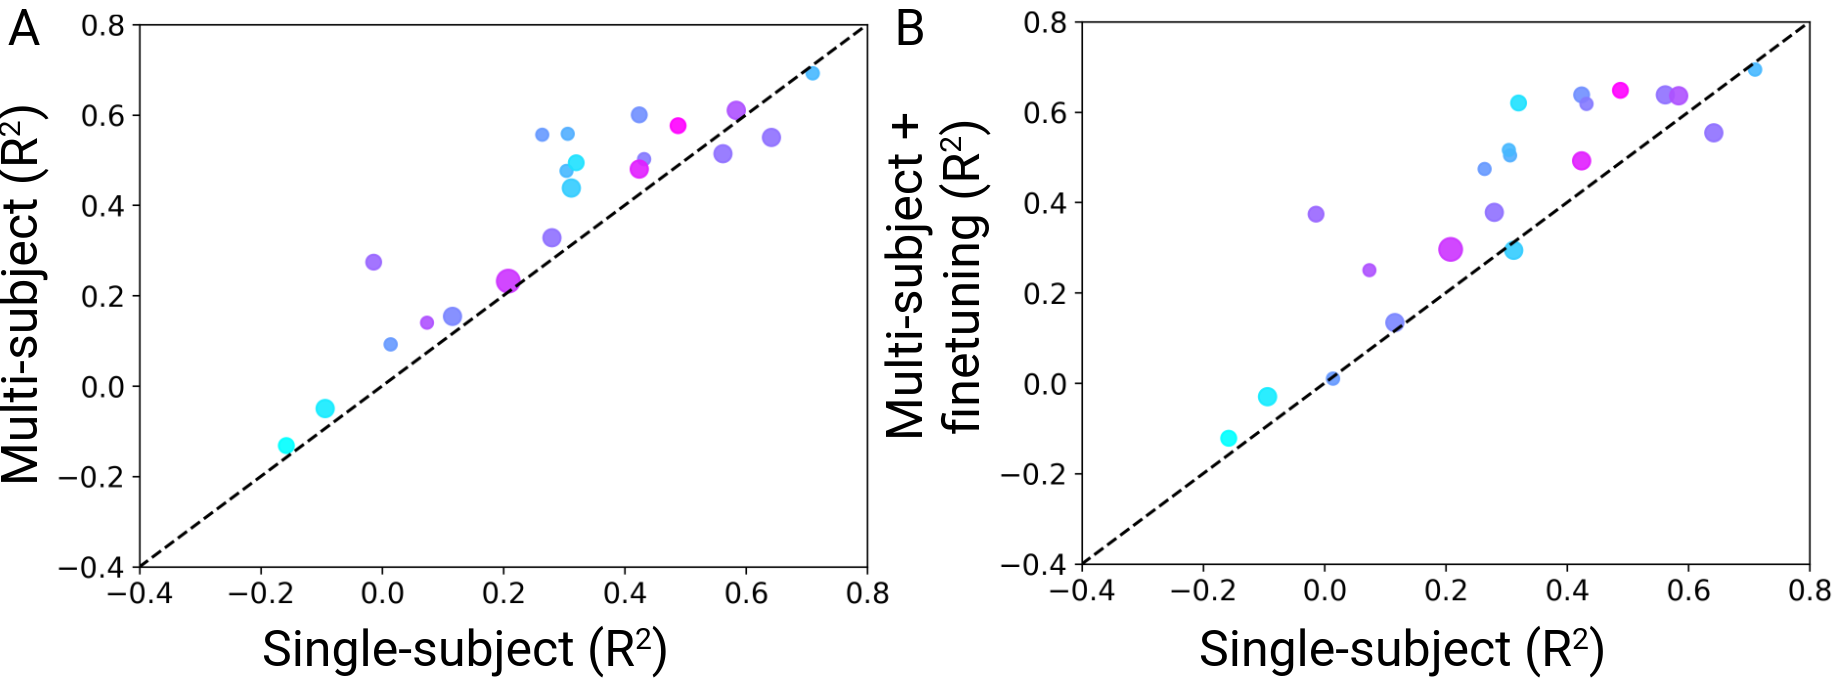
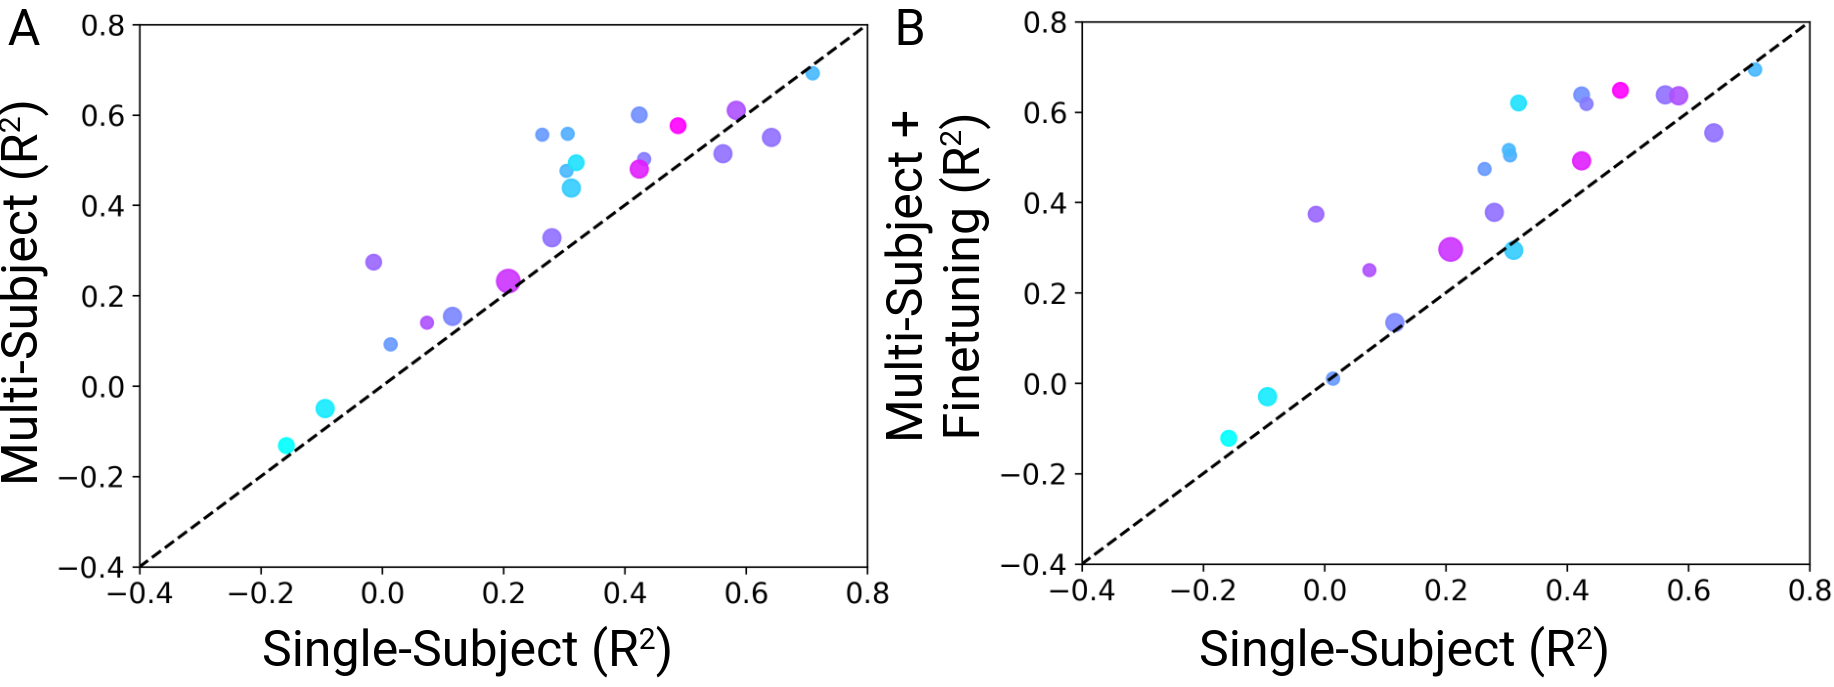
Updated Seegnificant project page

diff --git a/_seegnificant/default/proj1.md b/_seegnificant/default/proj1.md
@@ -7,23 +7,26 @@ date: 2024-01-9 00:01:00 +0800
 <div class="p-4">
     <!-- <h2 style="text-align: center; margin-bottom: 20px;">  Seeg-nificant </h2> -->
     <h3 style="text-align: center; margin-bottom: 20px;">Neural decoding from stereotactic EEG: accounting for electrode variability across subjects</h3>
-    <div style="width: 85%; margin: 0 auto; text-align: center; font-weight: bold; margin-bottom: 20px; font-size: 20px;">
+    <div style="width: 90%; margin: 0 auto; text-align: center; margin-bottom: 20px; font-size: 20px;">
         <span style="margin-right: 20px;">Georgios Mentzelopoulos<sup>1</sup></span>
         <span style="margin-right: 20px;">Evangelos Chatzipantazis<sup>1</sup></span>
-        <span style="margin-right: 20px;">Ashwin Ramayya<sup>2</sup></span>
+        <span style="margin-right: 20px;">Ashwin G. Ramayya<sup>2</sup></span>
         <span style="margin-right: 20px;">Michelle J. Hedlund<sup>2</sup></span>
         <span style="margin-right: 20px;">Vivek P. Buch<sup>2</sup></span>
-        <span style="margin-right: 20px;">Kostas Daniilidis<sup>1</sup></span>
+        <span style="margin-right: 20px;">Kostas Daniilidis<sup>1, 3</sup></span>
         <span style="margin-right: 20px;">Konrad P. Kording<sup>1</sup></span>
         <span style="margin-right: 20px;">Flavia Vitale<sup>1</sup></span>
     </div>
     <p style="text-align: center; margin-bottom: 20px; font-size: 18px;">
-        <sup>1</sup>
-        <img src="{{ 'assets/images/badges/upenn_logo.jpg' | relative_url }}" alt="Penn Logo" style="width: 30px; height: auto; vertical-align: middle;">
-        <span style="margin-right: 20px;"> University of Pennsylvania </span>
-        <sup>2</sup>
-        <img src="{{ 'assets/images/badges/stanford.png' | relative_url }}" alt="Stanford Logo" style="width: 17px; height: auto; vertical-align: middle;">
-        <span style="margin-right: 20px;"> Stanford University </span>
+        <sup>1</sup> <span style="margin-right: 2px;"> University of Pennsylvania </span>
+        <img src="{{ 'assets/images/badges/penn_logo_2.png' | relative_url }}" alt="Penn Logo" style="width: 50px; height: auto; vertical-align: middle; margin-right: 15px">
+        <!-- <span style="margin-right: 20px;"> University of Pennsylvania </span> -->
+        <sup>2</sup> <span style="margin-right: 2px;"> Stanford University </span>
+        <img src="{{ 'assets/images/badges/stanford.png' | relative_url }}" alt="Stanford Logo" style="width: 25px; height: auto; vertical-align: middle; margin-right: 15px">
+        <!-- <span style="margin-right: 20px;"> Stanford University </span> -->
+        <sup>3</sup> <span style="margin-right: 2px;"> Archimedes, Athena RC </span>
+        <img src="{{ 'assets/images/badges/archimedes_logo.png' | relative_url }}" alt="Archimedes Logo" style="width: 29px; height: auto; vertical-align: middle;">
+        <!-- <span style="margin-right: 20px;"> Archimedes, Athena RC </span> -->
     <!-- New line for Arxiv and GitHub logos with "Coming soon" tooltips -->
     <p style="text-align: center; margin-bottom: 20px;">
         <img src="{{ 'assets/images/badges/arxiv.jpg' | relative_url }}" alt="Arxiv Logo" title="Paper coming soon" style="width: 20px; height: auto; vertical-align: top; margin-right: 0px; cursor: not-allowed;">
@@ -33,73 +36,77 @@ date: 2024-01-9 00:01:00 +0800
             Code
         </a>
     </p>
-    <p style="text-align: center; margin-bottom: 20px;">Accepted for publication @ 
-    <a href="https://neurips.cc/Conferences/2024" target="_blank"> NeurIPS (2024).</a> <p>
+    <p style="text-align: center; margin-bottom: 20px;"> Published at the 38th Conference on Neural Information Processing Systems
+    <a href="https://neurips.cc/Conferences/2024" target="_blank"> (NeurIPS 2024).</a> <p>
     <h5 style="margin-top: 30px">Abstract</h5> 
     <hr />
     <p style="text-align: justify; margin-bottom: 20px; font-size: 17px">
-    Deep learning based neural decoding from stereotactic electroencephalography (sEEG) would likely benefit from scaling
-    up both dataset and model size. To achieve this, combining data across multiple subjects is crucial. However, in 
-    sEEG cohorts, each subject has a variable number of electrodes placed at distinct locations in their brain, solely 
-    based on clinical needs. Such heterogeneity in electrode number/placement poses a significant challenge for data 
-    integration, since there is no clear correspondence of the neural activity recorded at distinct sites between 
-    individuals. 
+    Deep learning based neural decoding from stereotactic electroencephalography (sEEG) would likely benefit from
+    scaling up both dataset and model size. To achieve this, combining data across multiple subjects is crucial. 
+    However, in sEEG cohorts, each subject has a variable number of electrodes placed at distinct locations in their 
+    brain, solely based on clinical needs. Such heterogeneity in electrode number/placement poses a significant 
+    challenge for data integration, since there is no clear correspondence of the neural activity recorded at distinct
+    sites between individuals.
+    <p style="text-align: justify; margin-bottom: 20px; font-size: 17px">
+    <strong><i>Here we introduce seegnificant: a training framework and architecture that can be used
+    to decode behavior across subjects using sEEG data</i></strong>. We tokenize the neural activity within electrodes using
+    convolutions and extract long-term temporal dependencies between tokens using self-attention in the time dimension. 
+    The 3D location of each electrode is then mixed with the tokens, followed by another self-attention in the
+    electrode dimension to extract effective spatiotemporal neural representations. Subject-specific heads are then
+    used for downstream decoding tasks.
     </p>
     <p style="text-align: justify; margin-bottom: 20px; font-size: 17px">
-    Here we introduce a training framework and architecture that can be used to decode behavior across
-    subjects using sEEG data. We tokenize the neural activity within electrodes using convolutions and extract 
-    long-term temporal dependencies between tokens using self-attention in the time dimension. The 3D location of each 
-    electrode is then mixed with the tokens, followed by another self-attention in the electrode dimension to extract
-    effective spatiotemporal neural representations. Subject-specific heads are then used for downstream decoding tasks.
-    </p>
-    <p style="text-align: justify; margin-bottom: 20px; font-size: 17px">
-    Using this approach, we construct a multi-subject model trained on the combined data from 21 subjects performing 
-    a behavioral task. We demonstrate that our model is able to decode the trial-wise response time of the subjects 
-    during the behavioral task solely from neural data. We also show that the neural representations learned by 
-    pretraining our model across individuals can be transferred in a few-shot manner to new subjects. This work 
-    introduces a scalable approach towards sEEG data integration for multi-subject model training, paving the way for
-    cross-subject generalization for sEEG decoding.  
+    Using this approach, we construct a multi-subject model trained on the combined
+    data from 21 subjects performing a behavioral task. We demonstrate that our model is able to decode the trial-wise
+    response time of the subjects during the behavioral task solely from neural data. We also show that the neural
+    representations learned by pretraining our model across individuals can be transferred in a few-shot manner to
+    new subjects. This work introduces a scalable approach towards sEEG data integration for multi-subject model
+    training, paving the way for cross-subject generalization for sEEG decoding.
     </p>
     <h5 style="margin-top: 30px">Dataset</h5> 
     <hr />
     <p style="text-align: justify; font-size: 17px">
-    <strong> Dataset. </strong> We obtained neural recordings from 21 subjects that were implanted with sEEG electrodes as part of
-    their medical care. Based on clinical needs, each subject was implanted with a variable number of electrodes at district locations in
-    their brain (Fig. 1A, B). Subjects were mixed in terms of sex (8 male, 13 female), age (ranging from 16-57 years old), and ethnic background. 
+    <strong> Neural Recordings. </strong> We obtained neural recordings from 21 subjects that were implanted with sEEG electrodes as part of
+    their medical care for medical refractory epilepsy. Based on clinical needs alone, each subject was implanted with a variable number of electrodes at district locations in
+    their brain (see Fig. 1). Subjects were mixed in terms of sex (8 male, 13 female), age (ranging from 16-57 years old), and ethnic background. 
     </p>
-    <p style="; font-size: 17px">
-    <strong> Behavioral Task. </strong> Subjects completed a repetitive, reaction
-    time task while their sEEG was simultaneously recorded (Fig. 1C). In each trial of the task, a visual stimulus was presented. After a variable delay, the stimulus changed color. 
-    At that time, the participant responded by pressing a button as fast as they could.
+    <div style="text-align: center;">
+        <img src="{{ 'assets/images/etc/dataset_seeg.png' | relative_url }}" alt="Descriptive text for the image" style="max-width: 100%; height: auto;">
+        <figcaption style="text-align: center; font-size: 17px; margin-top: 5px;">
+        Figure 1. <strong> Electrode placement for each subject in our cohort projected on an MNI brain template. </strong> Grey dots show behaviorally relevant electrodes, 
+        while grey dots represent behaviorally irrelevant electrodes (see Signal Processing).
+        </figcaption>
+    </div>
+    <p style="; font-size: 17px; margin-top: 15px">
+    <strong> Behavioral Task. </strong> Subjects completed the color-change detection task (a repetitive, reaction
+    time task) while their sEEG was simultaneously recorded (see Fig. 2). In each trial of the task, a visual stimulus was presented. After a variable delay, the stimulus changed color. 
+    At that time, the subject responded by pressing a button as fast as they could.
     </p>
     <!-- Figure with Caption -->
     <!-- Centered Figure with Limited Width -->
     <div style="text-align: center;">
-        <img src="{{ 'assets/images/etc/electrode_placement.png' | relative_url }}" alt="Descriptive text for the image" style="max-width: 80%; height: auto;">
+        <img src="{{ 'assets/images/etc/behavioral_task.png' | relative_url }}" alt="Descriptive text for the image" style="max-width: 50%; height: auto;">
         <figcaption style="text-align: center; font-size: 17px; margin-top: 5px;">
-        Figure 1. <strong> Dataset and behavioral experiment. </strong> <strong>(A)</strong> Electrode placement for 4 example subjects 
-        in our cohort. <strong>(B)</strong> All electrodes of all subject projected onto an MNI brain template.
-        <strong>(C)</strong> Schematic of a trial of the behavioral task.
+        Figure 2. <strong> Schematic of the behavioral task completed by subjects. </strong> 
         </figcaption>
     </div>
-    <h5 style="margin-top: 30px">Objective & challenges</h5>
+    <h5 style="margin-top: 30px">Mission</h5>
     <hr />
     <p style="; font-size: 17px">
-    <strong> Objective. </strong> Decode the trial-wise response time of the subjects using their sEEG.
+    <strong> <i>Our goal was to build a multi-subject model capable of decoding the trial-wise response time of subject using their sEEG. </i></strong> 
     </p>
     <p style="margin-top: 20px; margin-bottom: 10px ;font-size: 17px"> <strong>Challenges. </strong> </p>
     <ul style="; font-size: 17px">
       <li><strong>Variability of electrode number/placement across subjects: </strong> Subjects were implanted with
-        sEEG electrodes as part of their medical care. The number and placement of electrodes was determined solely based on
+        sEEG as part of their medical care, so the number and placement of electrodes was determined solely based on
         clinical needs. Therefore, there is no clear correspondence between the neural activity recorded 
         between individuals.  
         </li>
-      <li><strong>Limited amount of per-subject data:</strong> The amount of time that each subject devoted to
-        the behavioral task was limited, based on clinical circumstances. Therefore, the amount of data available to
-        train models from each subject is small. This is a barrier to scaling up models, which require a lot of data
+      <li><strong>Limited amount of per-subject data:</strong> Due to clinical circumstances, each subject completed 
+        only a few behavioral trials ($\sim$ 175 trials per subject). This is a barrier to scaling up, since neural networks require a lot of data
         to generalize effectively. </li>
       <li><strong>Variability in behavioral outcomes across subjects:</strong> The response time statistics 
-        (mean and variance of response times across trials) of each subject are unique, posing a significant challenge
+        of each subject are unique (how fast they respond on average), posing a significant challenge
         to integrating data across subjects.</li>
     </ul>
     <h5 style="margin-top: 30px"> Signal processing </h5> 
@@ -112,13 +119,13 @@ date: 2024-01-9 00:01:00 +0800
         Paraskevopoulou et al. (2021)</a> based on each electrode's high-gamma power (narrowband neural activity with
         frequency content between 70-150 Hz). This procedure isolated electrodes that
         monitor neural populations that are relevant to the task, and therefore are likely to contain information about 
-        the response time of the subject for each trial (Fig. 2). The electrical activity of those electrodes was then used for
+        the response time of the subject for each trial (Fig. 3). The electrical activity of those electrodes was then used for
         response time decoding.
     </p>
     <div style="text-align: center;">
-        <img src="{{ 'assets/images/etc/responsive_electrodes.png' | relative_url }}" alt="Descriptive text for the image" style="max-width: 60%; height: auto;">
+        <img src="{{ 'assets/images/etc/responsive_electrodes.png' | relative_url }}" alt="Descriptive text for the image" style="max-width: 70%; height: auto;">
         <figcaption style="text-align: center; font-size: 16px; margin-top: 5px; font-size: 17px">
-        Figure 2. <strong> Neural activity for color-change responsive electrodes during task for an example subject. </strong> Each dot on the 
+        Figure 3. <strong> Neural activity for behaviorally relevant electrodes during task for an example subject. </strong> Each dot on the 
         brain template shows an electrode that either responds to the stimulus color-change (cyan) or not (gray). 
         Each panel shows the high-gamma timecourse of an electrode, of all trials, for 1.5 sec after the stimulus color-change. Black 
         dots within panels show the subject's response time for each trial.
@@ -132,20 +139,20 @@ date: 2024-01-9 00:01:00 +0800
     timeseries of neural activity of each trial to the response time of the same trial. 
     </p>
     <p style="margin-top: 30px; font-size: 17px">
-    We built this map using the network show in Fig. 3, composed of the following building blocks:
+    We built this map using the network show in Fig. 4, composed of the following building blocks:
     <ul style="; font-size: 17px">
     <li>
-    <strong> Tokenizer: </strong> We use a CNN that operates on each electrode separately to tokenize the neural 
+    <strong> Temporal CNN (Tokenizer): </strong> We use a CNN that operates on each electrode separately to tokenize the neural 
     activity of each electrode.
     </li>   
     <li>
     <strong> Self-attention in time: </strong> Having tokenized the neural activity, we process the tokens with 
     self-attention <a href="https://doi.org/10.48550/arXiv.1706.03762" target="_blank"> 
-    [Vaswani et al. (2017)] </a> in the time dimension, to capture long term dependencies between timepoints.
+    [Vaswani et al. (2017)] </a> in the time dimension, to capture long-term dependencies between timepoints.
     </li>
     <li>
     <strong> Spatial positional encoding: </strong> Using MNI coordinates, we add information about each
-    electrodes location in the brain to the tokens.
+    electrode's location in the brain to the tokens.
     </li>
     <li>
     <strong> Self-attention in space: </strong> We then process the tokens with another self-attention 
@@ -166,11 +173,11 @@ date: 2024-01-9 00:01:00 +0800
         <figure style="display: inline-block; margin: 0;">
             <img src="{{ 'assets/images/etc/architecture.png' | relative_url }}" alt="Descriptive text for the image" style="max-width: 80%; height: auto;">
             <figcaption style="font-size: 16px; margin-top: 5px; width: 100%; text-align: center;">
-                Figure 3. <strong>Network architecture</strong>. 
+                Figure 4. <strong>Network architecture</strong>. 
             </figcaption>
         </figure>
     </div>
-    <h5 style="margin-top: 30px"> Single- and multi-subject model results </h5> 
+    <h5 style="margin-top: 30px"> Results: single- and multi-subject model training </h5> 
     <hr />
     <p style="text-align: justify; font-size: 17px">
     <strong> Training single subject models. </strong> To test whether our modeling approach would be able to decode 
@@ -182,23 +189,23 @@ date: 2024-01-9 00:01:00 +0800
     heterogeneity, would improve decoding performance, we trained a multi-subject model on the combined data of all subjects.
     <strong>The average per-subject test set $R^2$ for the multi-subject model was 0.39 $\pm$ 0.05 (mean $\pm$ sem). </strong> 
     The multi-subject training approach boosted decoding performance by $\Delta R^{2}$ = 0.09, on average, compared to
-    training on single subjects (Fig. 4A).
+    training on single subjects (Fig. 5A).
     </p>
     <p style="text-align: justify; font-size: 17px">
     <strong> Finetuning the multi-subject model to single subjects. </strong> We then tested whether 
     finetuning the multi-subject model to individual subjects would further boost the performance gains.
-    <strong> The multi-seubject model, finetuned to each subject achieved an average per-subject test set
+    <strong> The multi-subject model, finetuned to each subject achieved an average per-subject test set
     $R^2$ score of 0.41 $\pm$ 0.05 </strong>. Finetuning the multi-subject model to individual subjects boosted the
-    performance gains by $\Delta R^{2}$ = 0.11, on average, compared to single subject models (Fig. 4B).
+    performance gains by $\Delta R^{2}$ = 0.11, on average, compared to single subject models (Fig. 5B).
     </p>
     <div style="text-align: center; margin-top: 30px">
         <img src="{{ 'assets/images/etc/ms_vs_ss.png' | relative_url }}" alt="Descriptive text for the image" style="max-width: 65%; height: auto;">
         <figcaption style="text-align: center; font-size: 16px; margin-top: 5px; max-width: 100%; font-size: 17px">
-        Figure 4. <strong> Comparing decoding performance between </strong> <strong> (A) </strong> single-subject vs multi-subject model and <strong> (B) </strong>
+        Figure 5. <strong> Comparing decoding performance between </strong> <strong> (A) </strong> single-subject vs multi-subject model and <strong> (B) </strong>
         single-subject vs finetuned, multi-subject model. 
         </figcaption>
     </div>
-    <h5 style="margin-top: 30px"> Transferring multi-subject models to new subjects </h5> 
+    <h5 style="margin-top: 30px"> Results: transferring multi-subject models to new subjects </h5> 
     <hr />
     <p style="text-align: justify; margin-top: 30px; font-size: 17px">
     <strong> Transferring the multi-subject model to new subjects. </strong> 
@@ -206,29 +213,29 @@ date: 2024-01-9 00:01:00 +0800
     unseen from the model during training. To test this, we employed a leave-one-out cross validation approach. We trained 21 models, each of which was
     trained on the combined data of all subjects but one. The weights of the pretrained models were then used as
     the basis for finetuning on the data of each left-out participant.
-    <strong> Across subjects, the  models trained on other subjects and finetuned to a new one achieved an average test set
-    $R^{2}$ of 0.38 $\pm$ 0.05 (mean $\pm$ sem). </strong> The finetuned single-subject models showed a
-    decoding performance increase $\Delta R^{2}$ = 0.08 compared to the single-subject models trained from scratch (Fig. 5A) and 
-    showed decoding performance similar to the multi-subject model (Fig. 5B).
+    <strong> Across subjects, the  models trained on other subjects and transferred to a new one achieved an average 
+    test set $R^{2}$ of 0.38 $\pm$ 0.05 (mean $\pm$ sem). </strong> The transferred single-subject models showed a
+    decoding performance increase $\Delta R^{2}$ = 0.08 compared to the single-subject models trained from scratch (Fig. 6A) and 
+    showed decoding performance similar to the multi-subject model (Fig. 6B).
     </p>
     <div style="text-align: center; margin-top: 20px">
         <img src="{{ 'assets/images/etc/ss_ssf.png' | relative_url }}" alt="Descriptive text for the image" style="max-width: 65%; height: auto;">
         <figcaption style="text-align: center; font-size: 16px; margin-top: 5px; max-width: 100%; font-size: 17px">
-        Figure 5. <strong> Comparing decoding performance between </strong> <strong> (A) </strong> transferred 
+        Figure 6. <strong> Comparing decoding performance between </strong> <strong> (A) </strong> transferred 
         single-subject finetuned models vs  single-subject models trained from scratch, and <strong> (B) </strong> 
         transferred single-subject finetuned models vs the multi-subject model.
         </figcaption>
     </div>
-    <h5 style="margin-top: 30px"> Baseline comparisons </h5> 
+    <h5 style="margin-top: 30px"> Results: baseline comparisons </h5> 
     <hr />
     <p style="text-align: justify; margin-top: 20px; font-size: 17px">
-    To ensure that our modeling approach is worth the computational complexity, we compared our models against
-    various simple and state-of-the-art baselines. <strong> Our proposed architecture outperformed all baseline models when 
-    trained on either single or multiple subjects. </strong> 
+    Last, we compared our modeling approach against other traditional and state-of-the art neural decoding approaches.
+    <strong> Seegnificant outperformed all other approaches when 
+    trained on single subjects, multiple subjects, and when transferred </strong> (Fig. 7).
     <div style="text-align: center; margin-top: 20px">
         <img src="{{ 'assets/images/etc/baseline_comparisons.png' | relative_url }}" alt="Descriptive text for the image" style="max-width: 65%; height: auto;">
         <figcaption style="text-align: center; font-size: 16px; margin-top: 5px; max-width: 100%; font-size: 17px">
-        Figure 3. <strong> Decoding performance (mean $\pm$ sem) for various baselines and our proposed models. </strong>
+        Figure 7. <strong> Decoding performance (mean $\pm$ sem) for various baselines and our proposed models. </strong>
         </figcaption>
     </div>
     </p>
